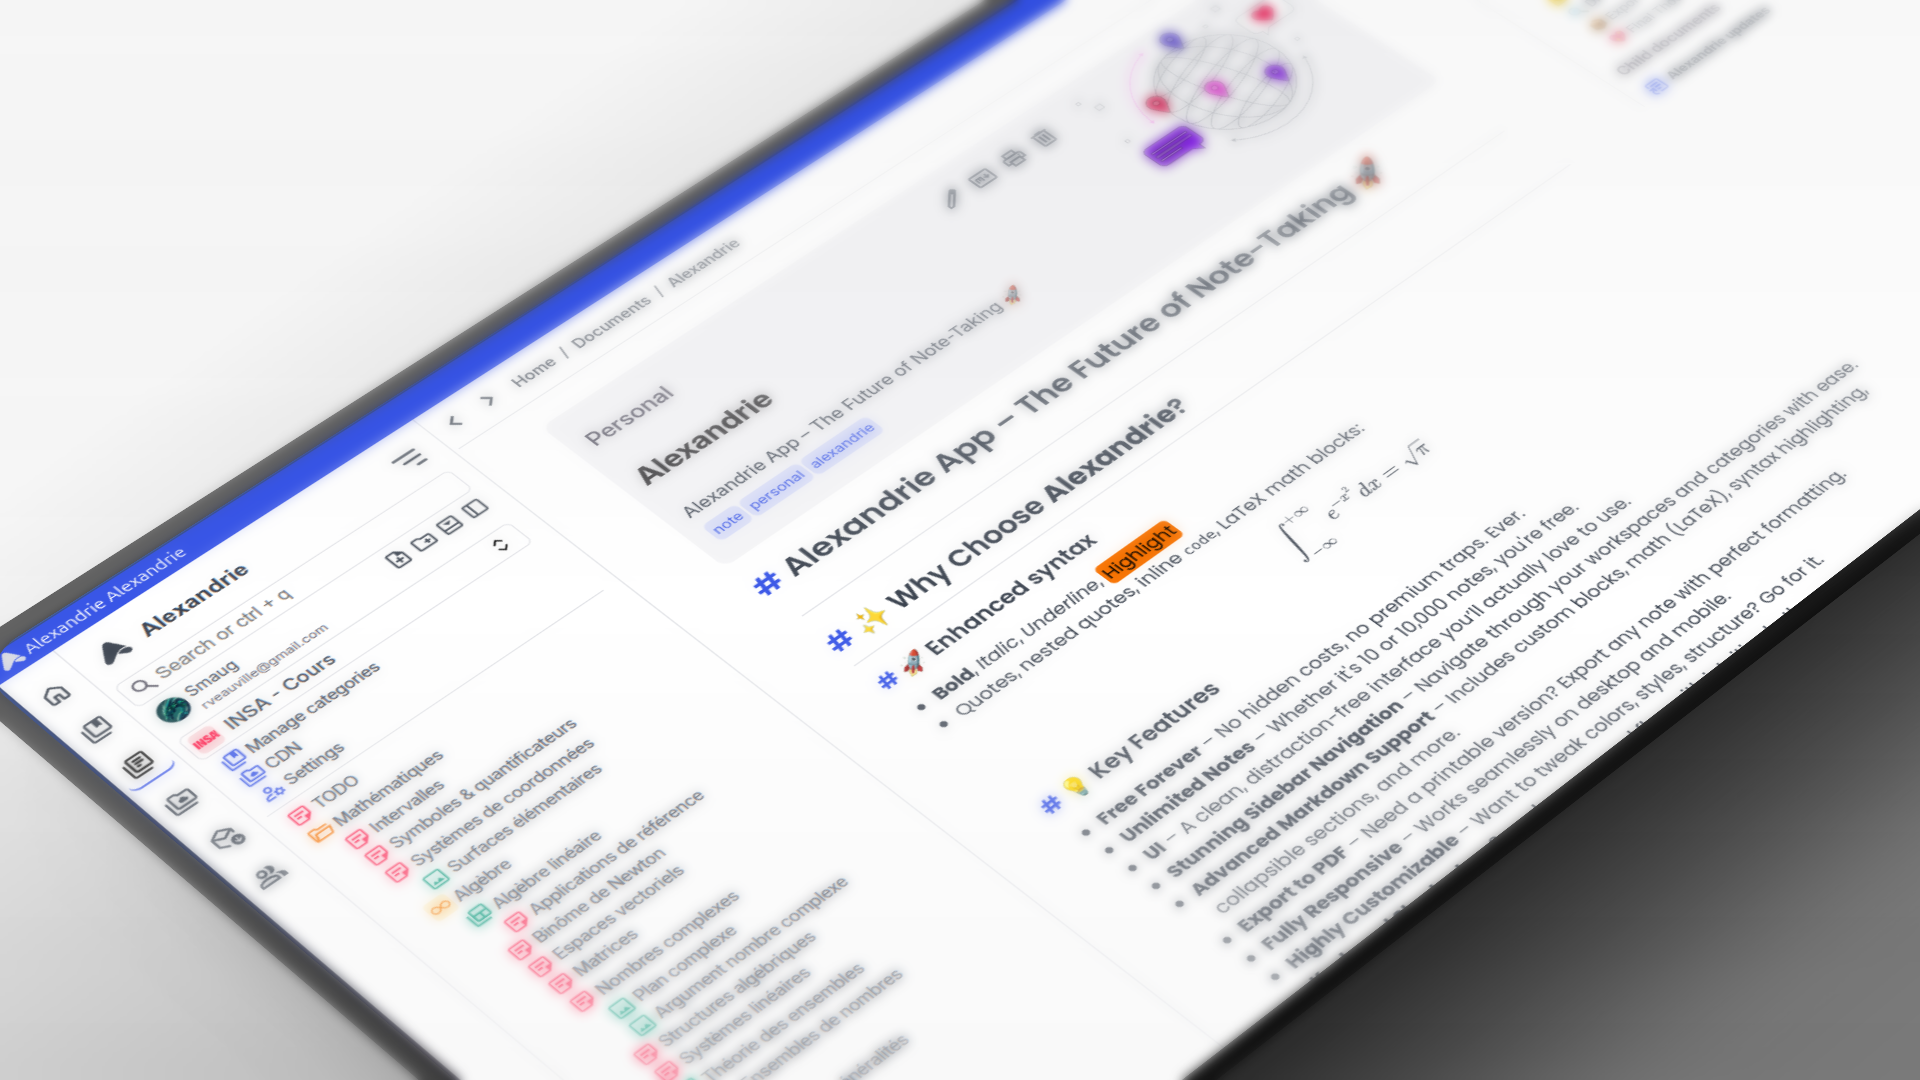
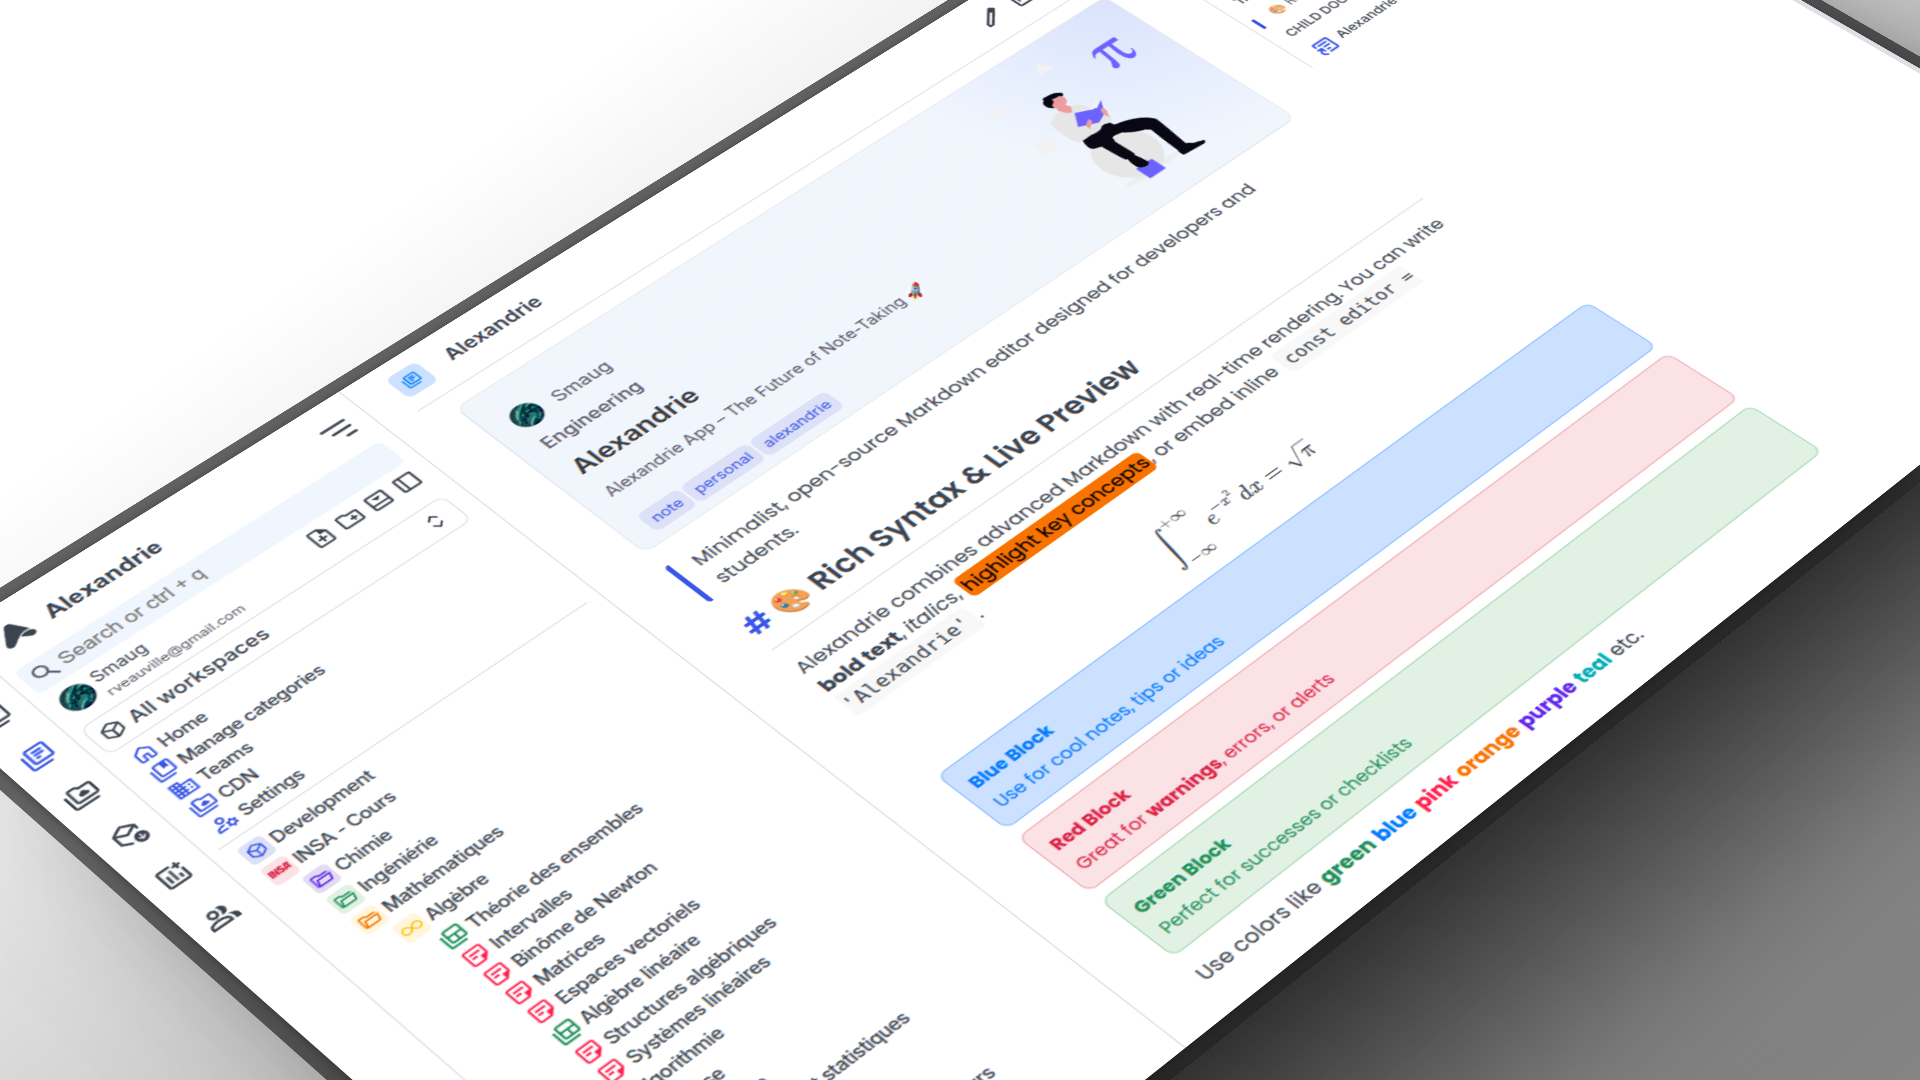
fix: images & seo meta tags

diff --git a/frontend/app/App.vue b/frontend/app/App.vue
@@ -77,7 +77,7 @@ useSeoMeta({
   twitterCard: 'summary_large_image',
   twitterTitle: () => t('landing.seo.title'),
   twitterDescription: () => t('landing.seo.description'),
-  twitterImage: () => `${requestUrl.origin || __BASE_URL__}/icons/icon-192.png`,
+  twitterImage: () => `${requestUrl.origin || __BASE_URL__}/screenshots/mock/0.png`,
 });
 
 useHead({